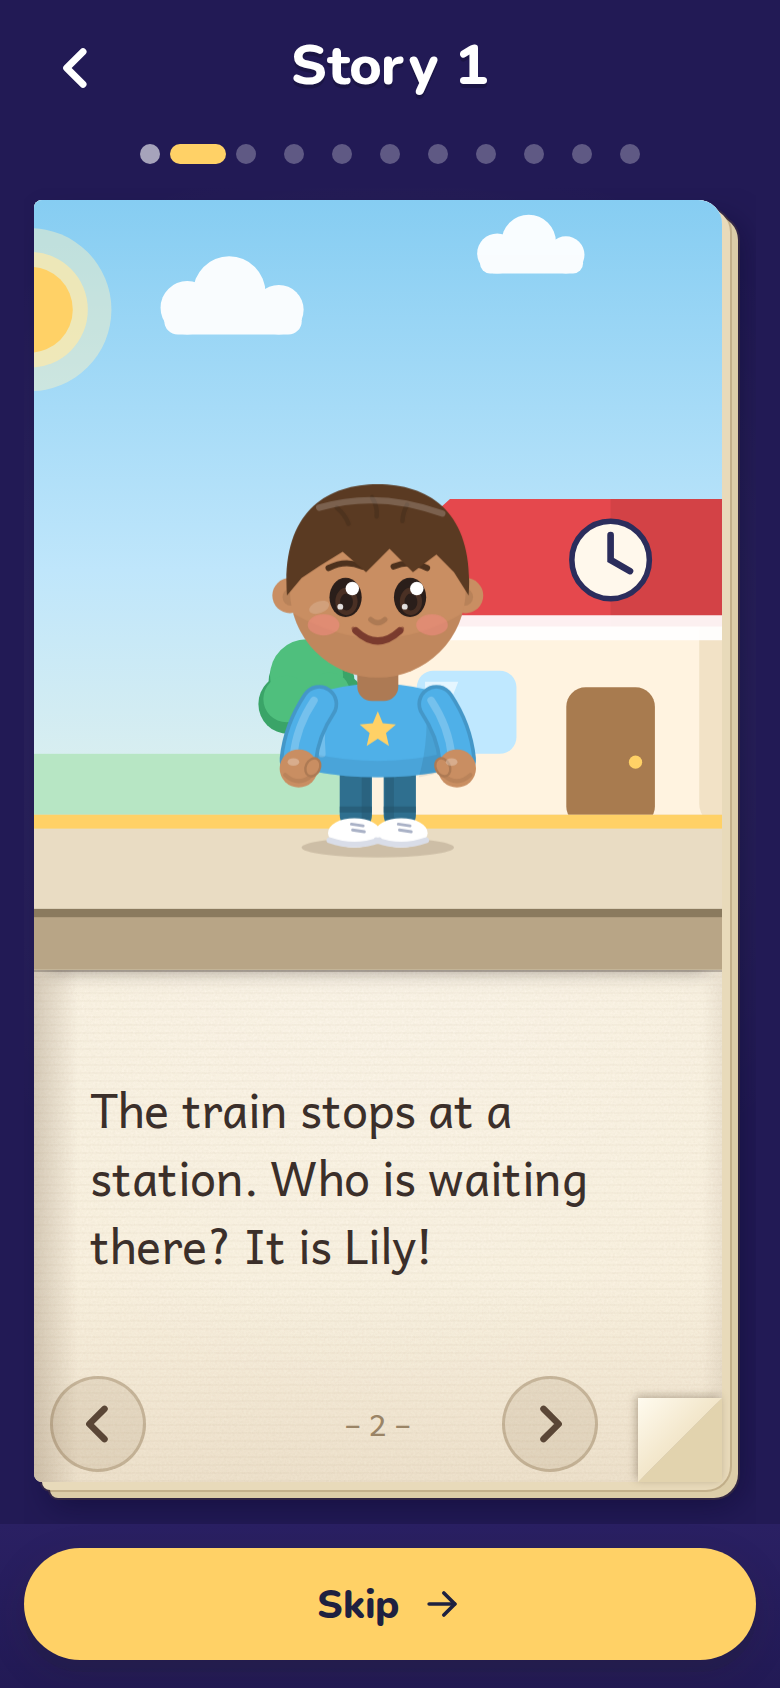
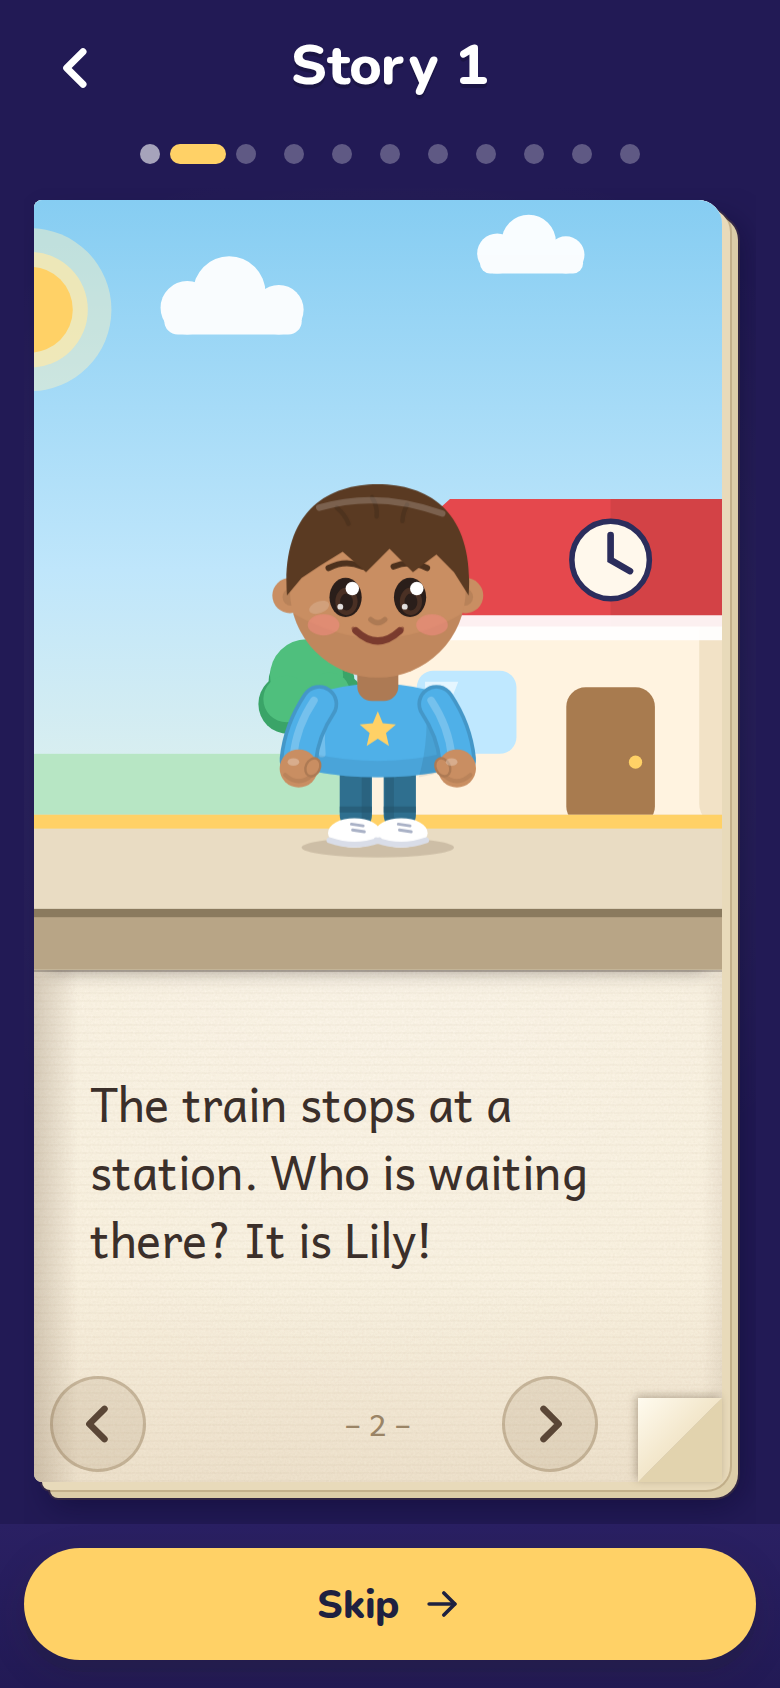
WIP storybook: spread right page keeps the bottom row clear

Changed region(s): [[0.1231, 0.6469, 0.7692, 0.7701]]

diff --git a/css/app.css b/css/app.css
@@ -884,7 +884,8 @@ button img, .word-tile img, .pic-frame img { pointer-events: none; -webkit-user-
   background-image: var(--fibers), var(--grain), linear-gradient(270deg, rgba(70,45,20,.22), rgba(70,45,20,0) 30px), linear-gradient(90deg, rgba(70,45,20,.07), rgba(70,45,20,0) 10px), radial-gradient(120% 80% at 50% 45%, rgba(255,255,255,.4), rgba(255,255,255,0) 62%), linear-gradient(0deg, rgba(150,110,60,.12), rgba(150,110,60,0) 16%); }
 .book-body { flex: 1 0 auto; display: flex; flex-direction: column; justify-content: center; gap: 10px; padding: 14px 24px 68px 28px; box-sizing: border-box; min-height: 0; }
 .book-sheet.is-left .book-body { padding: 18px 30px 68px 22px; justify-content: flex-start; }
-.book[data-spread="1"] .book-sheet.is-right .book-body { flex: 0 0 auto; padding: 8px 18px 62px 24px; }
+.book[data-spread="1"] .book-sheet.is-right { padding-bottom: 62px; }
+.book[data-spread="1"] .book-sheet.is-right .book-body { flex: 0 0 auto; padding: 8px 18px 6px 24px; }
 .book-sheet.kind-review .book-body { flex: 1 1 auto; justify-content: flex-start; }
 .book-folio { position: absolute; left: 0; right: 0; bottom: 19px; text-align: center; font-size: 15px; color: #9A8466; pointer-events: none; }
 .book-folio::before { content: '\2013\00a0'; } .book-folio::after { content: '\00a0\2013'; }
